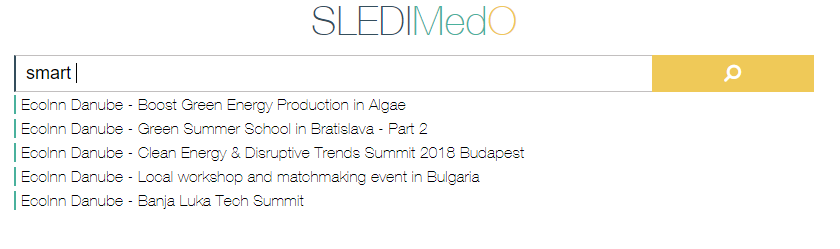
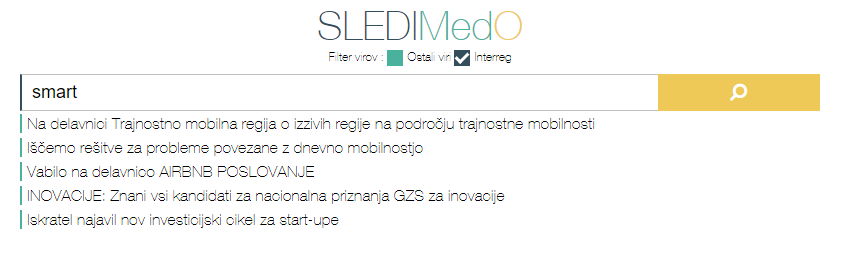
zadnji popravki tekstov

Changed region(s): [[0.0, 0.0, 0.9905, 0.8715]]

diff --git a/spletna/SLEDIMedO/view/instructions.php b/spletna/SLEDIMedO/view/instructions.php
@@ -22,8 +22,8 @@
 					<br><br>
 					<p class="page-sub-title">PRIMER UPORABE</p>
 					<p>
-					Spodaj je prikazan primer uporabe spletna strani za iskalni niz 'smart'. V iskalni okvir vpišete ključne besede, spletna stran vam medtem prikaže nekaj potencialnih zadetkov, sicer pa vam nato na podstrani prikaže vse zadetke, ki se ujemajo z vašim iskalnim nizom.<br>
-					Na prvi sliki vidimo iskalnik ter predloge spletne strani, ki jih dobimo za dano ključno besedo.
+					Spodaj je prikazan primer uporabe spletna strani za iskalni niz 'smart'. V iskalni okvir vpišete ključne besede, spletna stran vam medtem prikaže nekaj potencialnih zadetkov, sicer pa vam nato na podstrani prikaže vse zadetke, ki se ujemajo z vašim iskalnim nizom. Poleg tega pa ima stran na voljo tudi filtriranje, pri čemer lahko izbirate med novicami, ki prihajajo iz vira Interreg, ali pa med vsemi ostalimi.<br>
+					Na prvi sliki vidimo iskalnik ter predloge spletne strani, ki jih dobimo za dano ključno besedo, za filtriranje pa so izbrane samo novice z vira Interreg.
 					<img class="sub-page-img" src="<?= IMAGES_URL . "/instructions/slika1.PNG" ?>"><br>
 					Zatem vidimo tri zadetke oziroma novice, ki jih vrne iskalni niz. Da odpremo naslednjo stran, preprosto kliknemo na izbrano novico.
 					<img class="sub-page-img" src="<?= IMAGES_URL . "/instructions/slika2.PNG" ?>"><br>

diff --git a/spletna/SLEDIMedO/view/en/instructions.php b/spletna/SLEDIMedO/view/en/instructions.php
@@ -22,7 +22,8 @@
 					<br><br>
 					<p class="page-sub-title">EXAMPLE OF USE</p>
 					<p>
-					Below you can see an example of how to use the website, with the search query 'smart'. To find the news you type key words, acronyms or full project names. The site will show you some search results in a drop down menu, but if none of them are what you are searching for, just press enter and the site will take you to a subsite, where every article related to your search query is.
+					Below you can see an example of how to use the website, with the search query 'smart'. To find the news you type key words, acronyms or full project names. The site will show you some search results in a drop down menu, but if none of them are what you are searching for, just press enter and the site will take you to a subsite, where every article related to your search query is. The site also has an added filtering option, where you can choose between news from Interreg website or other sources.
+					In the given example only news from Interreg website.
 					<img class="sub-page-img" src="<?= IMAGES_URL . "/instructions/slika1.PNG" ?>"><br>
 					In the next image we can see three selected search results. To proceed we can just choose one and click on it.
 					<img class="sub-page-img" src="<?= IMAGES_URL . "/instructions/slika2.PNG" ?>"><br>

diff --git a/spletna/SLEDIMedO/view/about.php b/spletna/SLEDIMedO/view/about.php
@@ -33,7 +33,7 @@
 					<br>
 					<p class="page-sub-title">O CENTRU ZA EVROPSKO PRIHODNOST</p>
 					<p>
-					Projekt 'Sledenje medijskim objavam' je financiran preko javnega razpisa <i>'Projektno delo z negospodarskim in neprofitnim sektorjem – študentski inovativni projekt za družbeno korist<i>, ki ga skupaj upravljajo Javni štipendijski, razvojni, invalidski in preživninski sklad RS, Ministrstvo za izobraževanje, znanost in šport RS ter Evropski socialni sklad.  Cilj Centra za evropsko prihodnost je izboljšanje evropske prihodnosti, večja demokraticnost, varnost ter osredotočanje na mlajšo generacijo.
+					Projekt 'Sledenje medijskim objavam' je financiran preko javnega razpisa <i>'Projektno delo z negospodarskim in neprofitnim sektorjem – študentski inovativni projekt za družbeno korist</i>, ki ga skupaj upravljajo Javni štipendijski, razvojni, invalidski in preživninski sklad RS, Ministrstvo za izobraževanje, znanost in šport RS ter Evropski socialni sklad.  Cilj Centra za evropsko prihodnost je izboljšanje evropske prihodnosti, večja demokraticnost, varnost ter osredotočanje na mlajšo generacijo.
 					</p>
 					<br>
 					<p>
